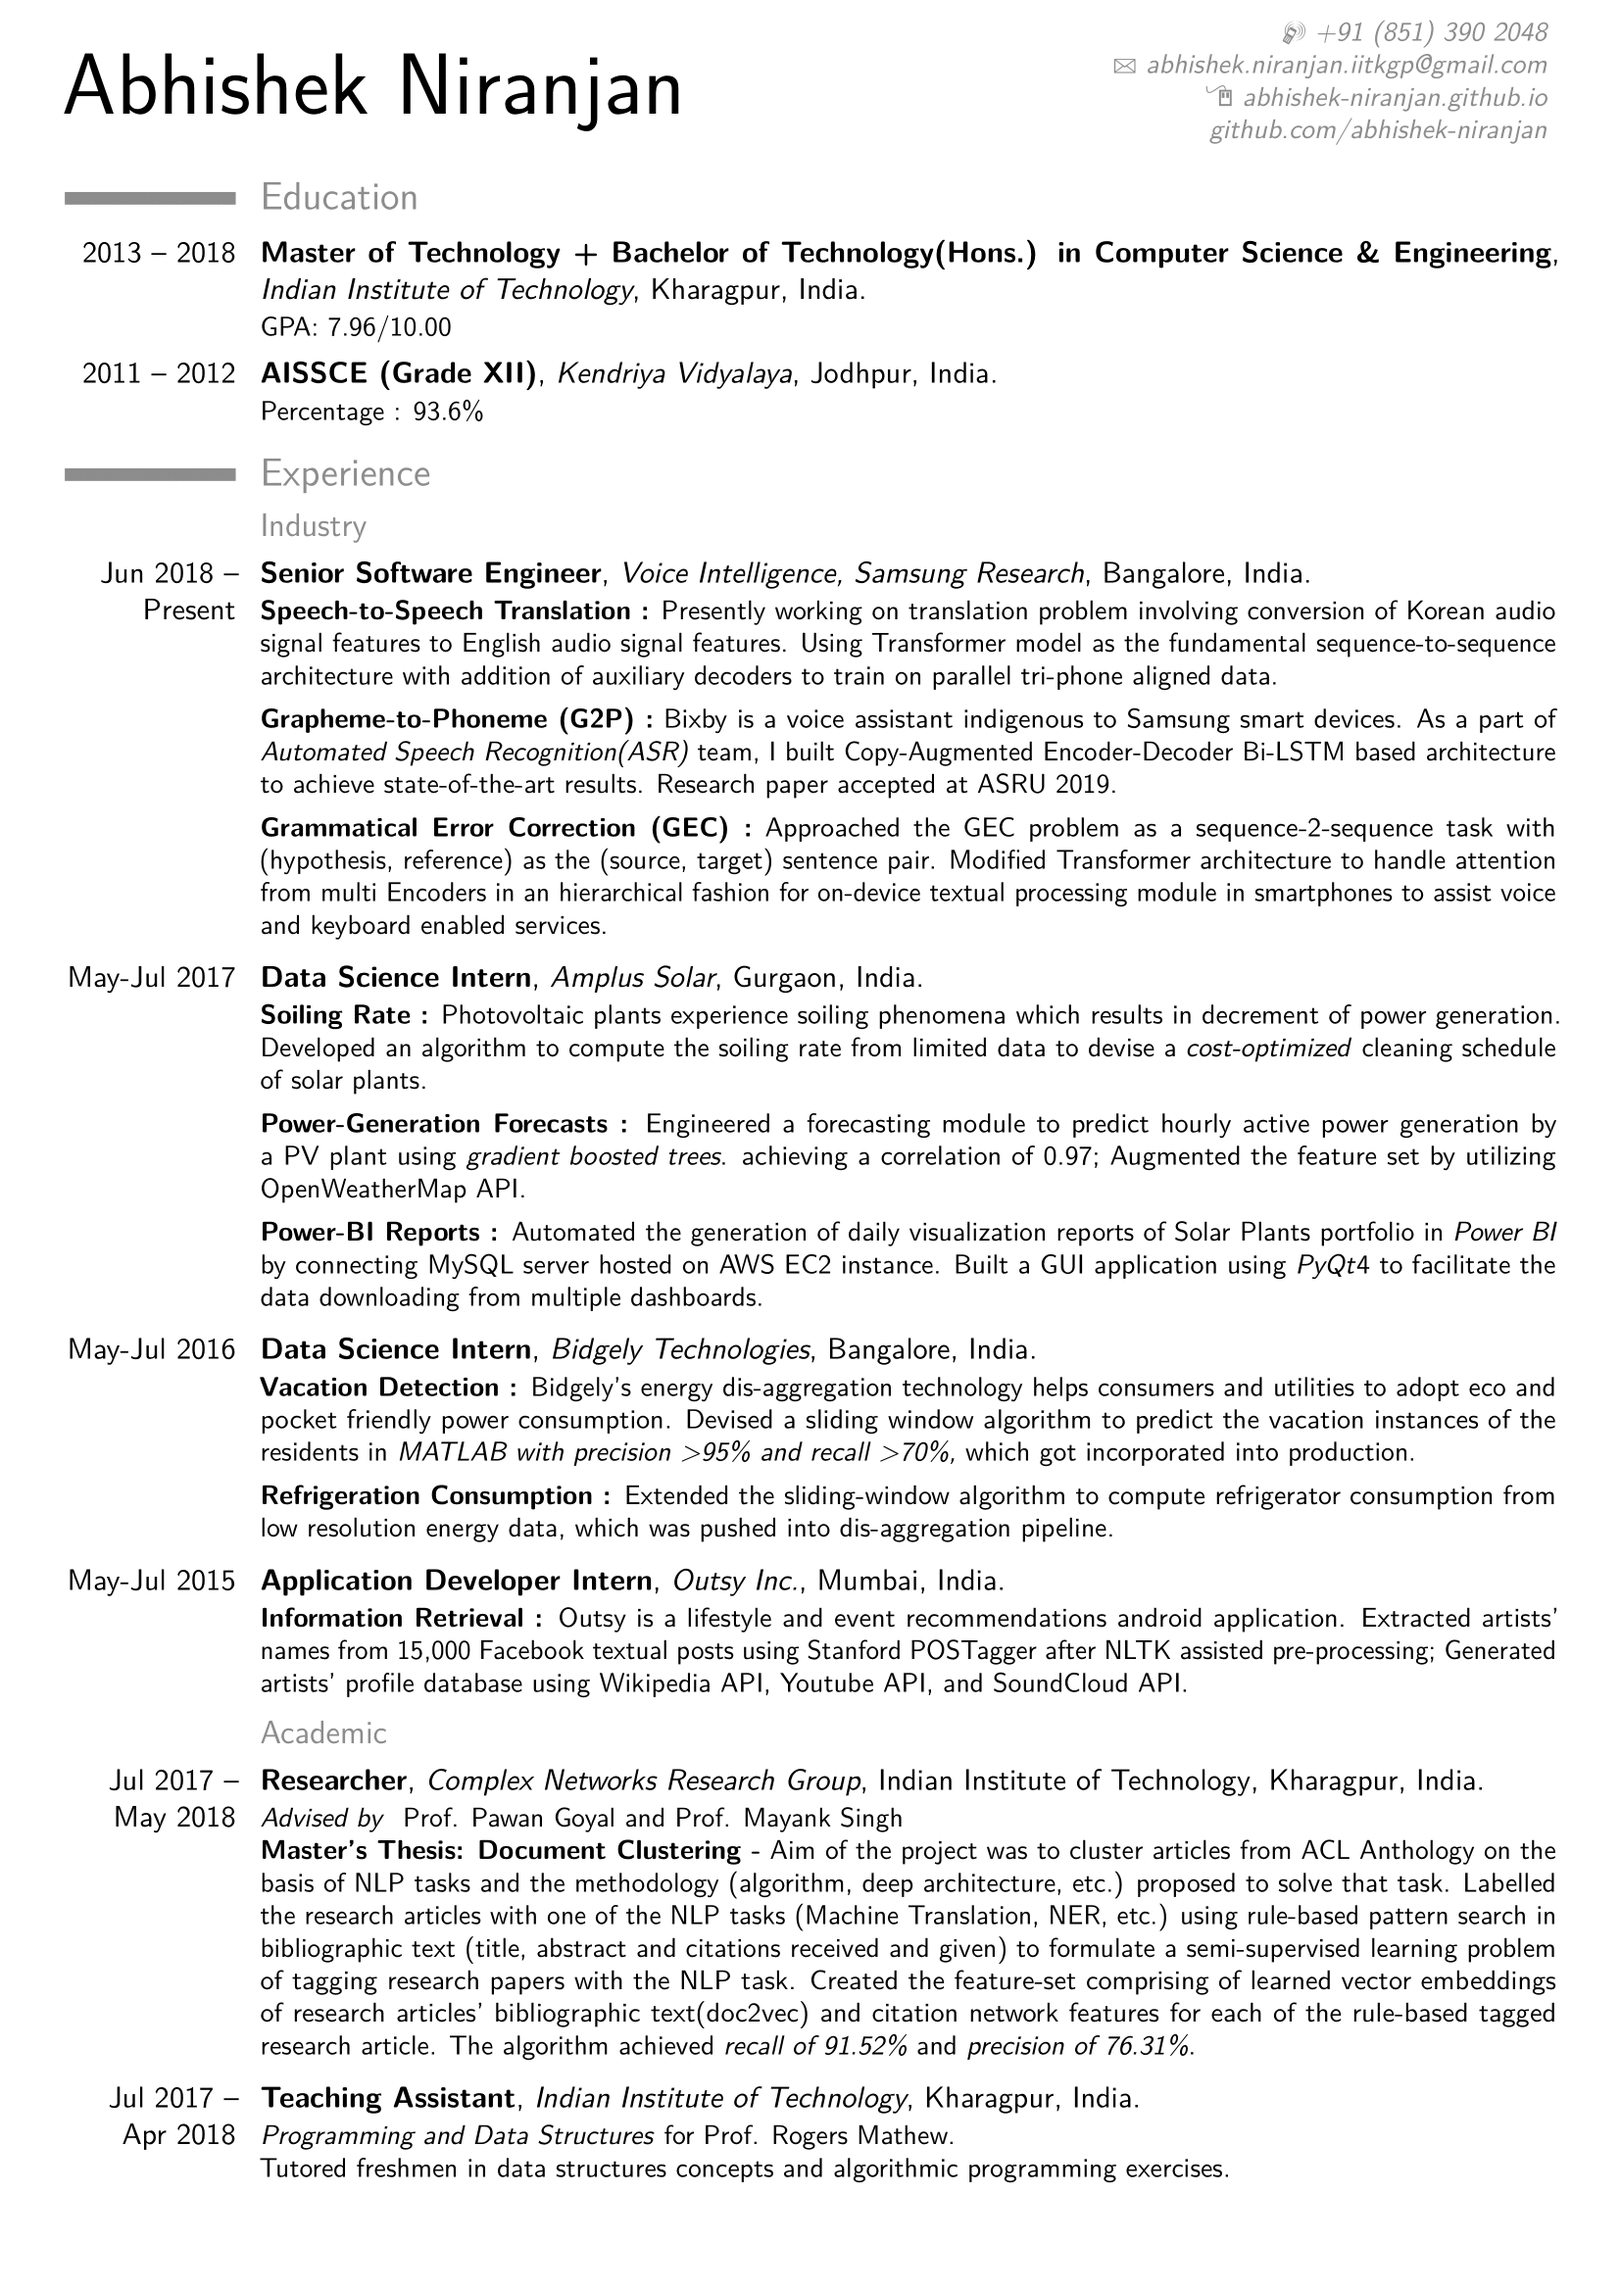
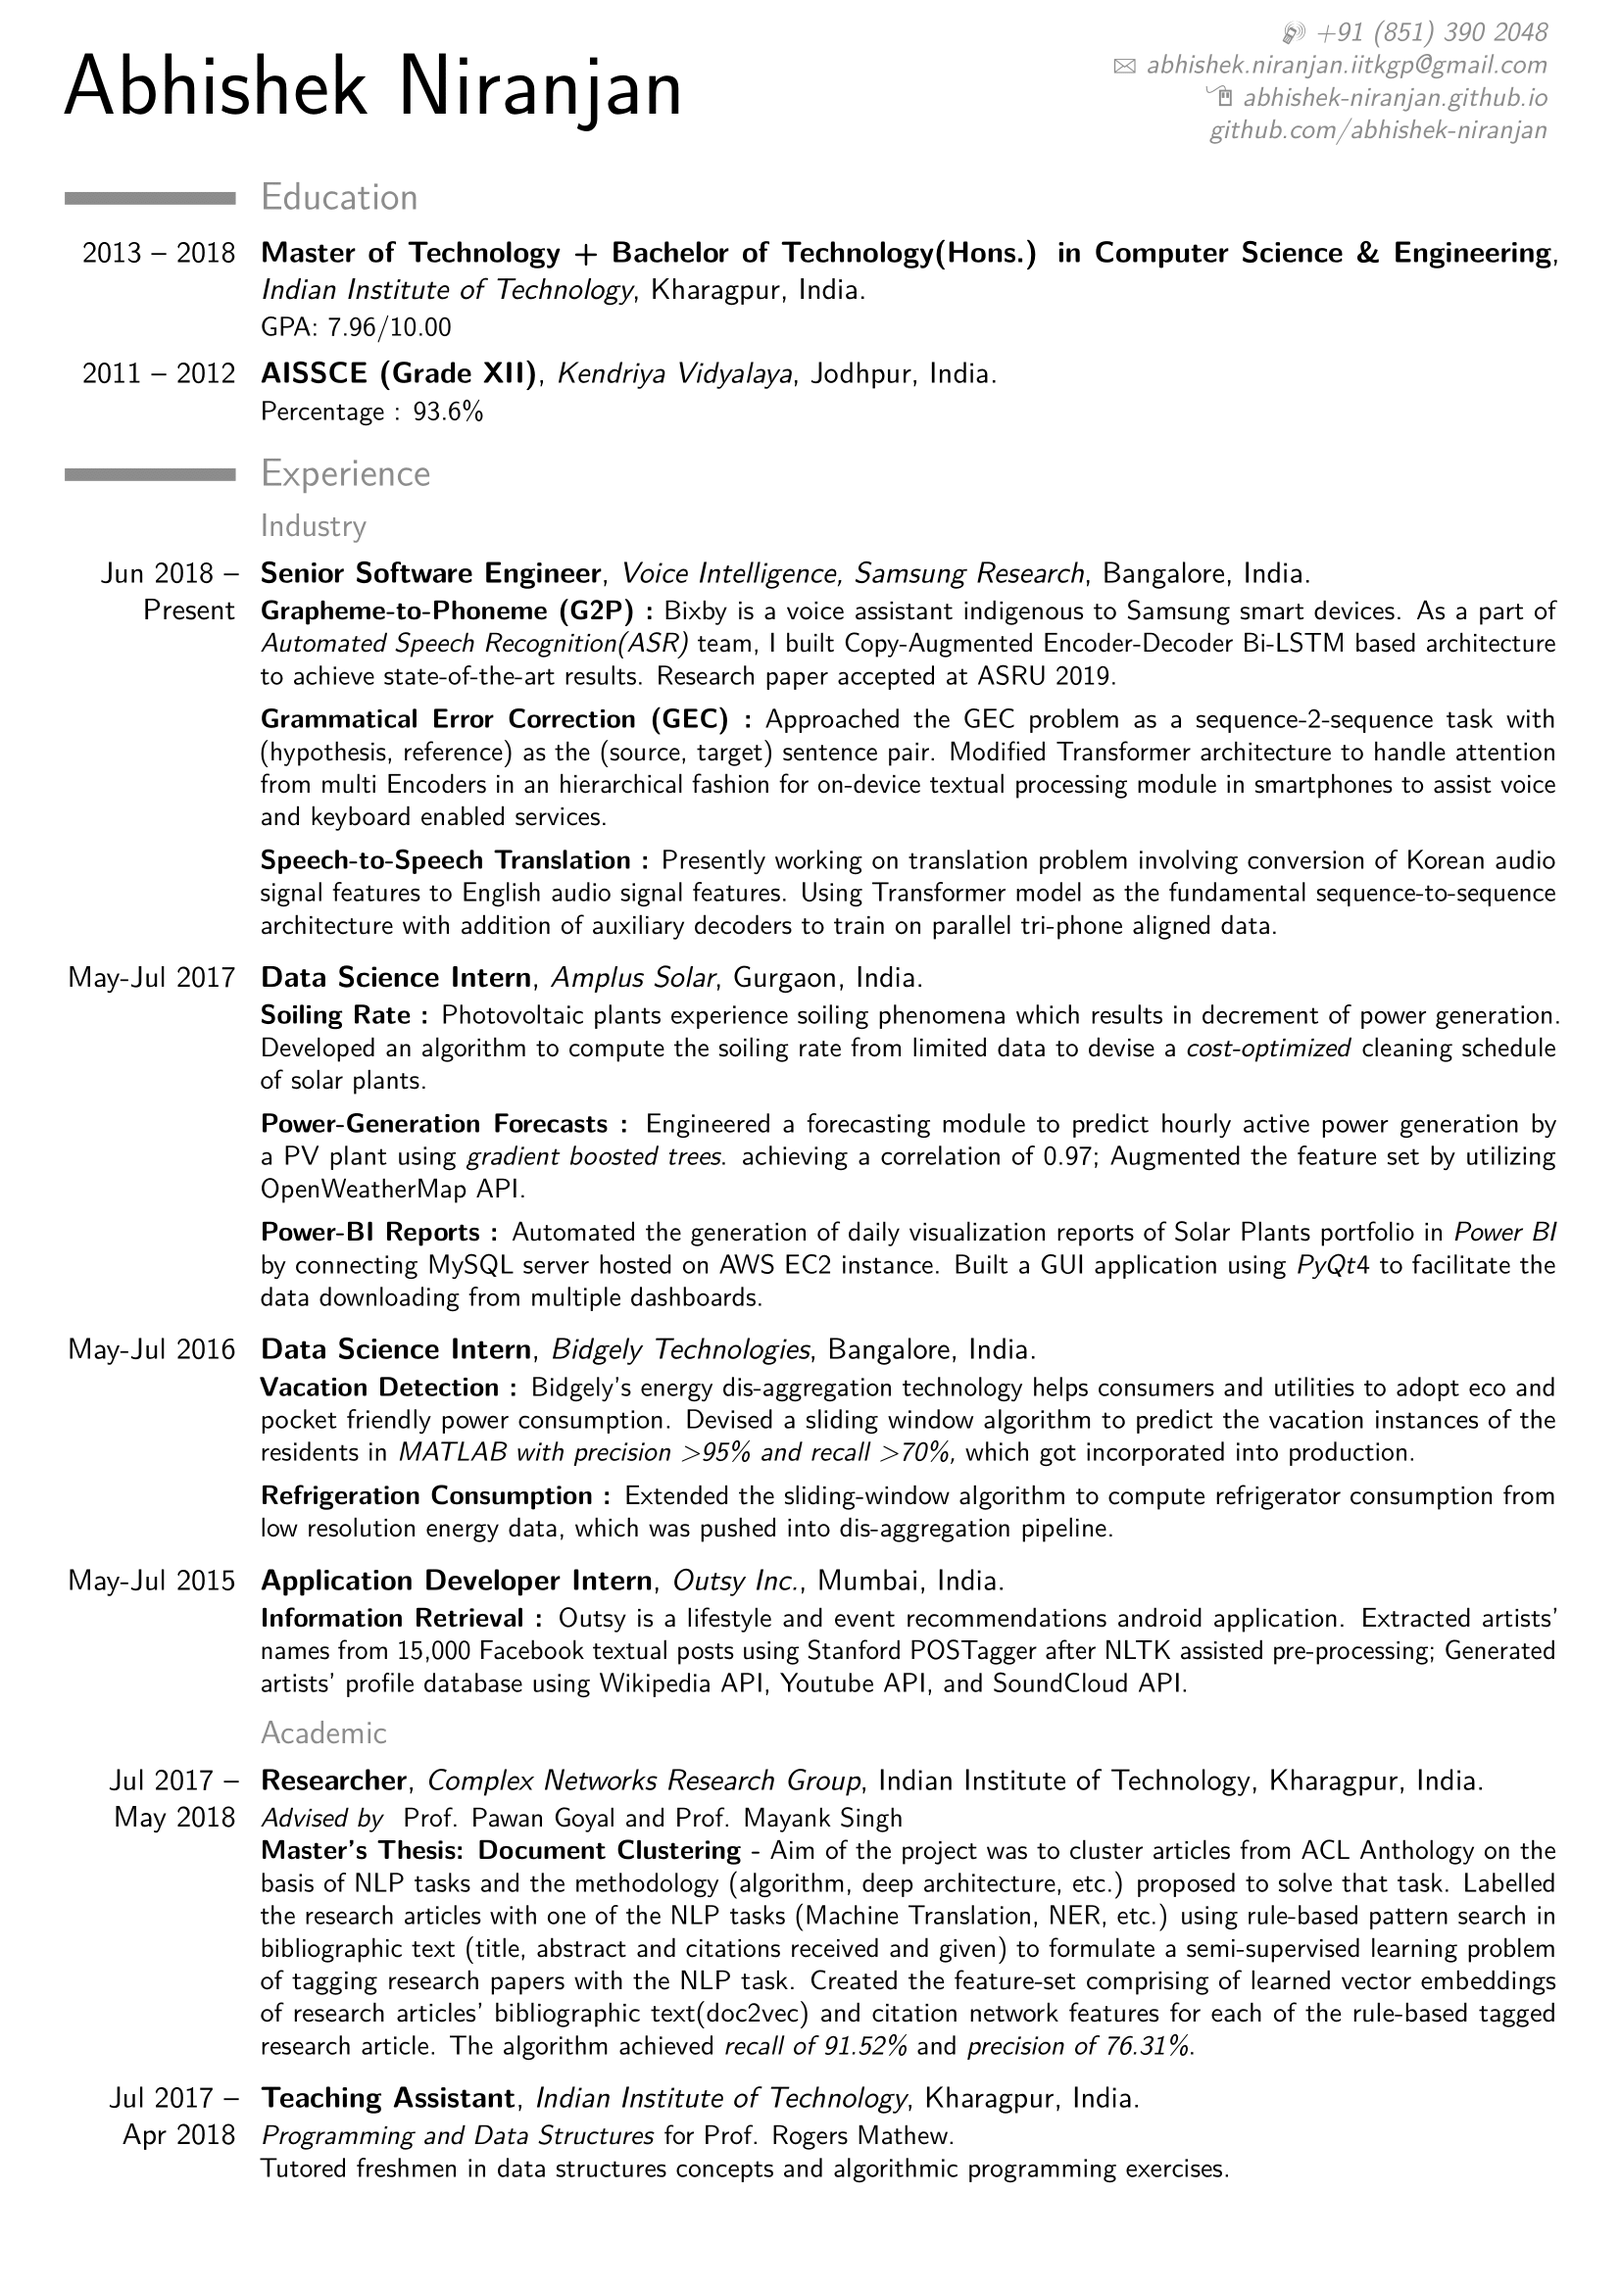
Updates from Overleaf

Changed region(s): [[0.1542, 0.2497, 0.9559, 0.4057]]

diff --git a/main.tex b/main.tex
@@ -67,11 +67,11 @@
 \vspace{-2mm}
 \subsection{Industry}
 \cventry{Jun 2018 -- Present}{Senior Software Engineer}{Voice Intelligence, Samsung Research}{Bangalore, India}{}
-{\textbf{Speech-to-Speech Translation :} Presently working on translation problem involving conversion of Korean audio signal features to English audio signal features. Using Transformer model as the fundamental sequence-to-sequence architecture with addition of auxiliary decoders to train on parallel tri-phone aligned data.
+{\textbf{Grapheme-to-Phoneme (G2P) :} Bixby is a voice assistant indigenous to Samsung smart devices. As a part of \textit{Automated Speech Recognition(ASR)} team, I built Copy-Augmented Encoder-Decoder Bi-LSTM based architecture to achieve state-of-the-art results. Research paper accepted at ASRU 2019.
 \vspace{4} \\ 
-\textbf{Grapheme-to-Phoneme (G2P) :} Bixby is a voice assistant indigenous to Samsung smart devices. As a part of \textit{Automated Speech Recognition(ASR)} team, I built Copy-Augmented Encoder-Decoder Bi-LSTM based architecture to achieve state-of-the-art results. Research paper accepted at ASRU 2019.
+\textbf{Grammatical Error Correction (GEC) :} Approached the GEC problem as a sequence-2-sequence task with (hypothesis, reference) as the (source, target) sentence pair. Modified Transformer architecture to handle attention from multi Encoders in an hierarchical fashion for on-device textual processing module in smartphones to assist voice and keyboard enabled services.
 \vspace{4} \\ 
-\textbf{Grammatical Error Correction (GEC) :} Approached the GEC problem as a sequence-2-sequence task with (hypothesis, reference) as the (source, target) sentence pair. Modified Transformer architecture to handle attention from multi Encoders in an hierarchical fashion for on-device textual processing module in smartphones to assist voice and keyboard enabled services. \\}
+\textbf{Speech-to-Speech Translation :} Presently working on translation problem involving conversion of Korean audio signal features to English audio signal features. Using Transformer model as the fundamental sequence-to-sequence architecture with addition of auxiliary decoders to train on parallel tri-phone aligned data.\\}
 \vspace{-2mm}
 \cventry{May-Jul 2017}{Data Science Intern}{Amplus Solar}{Gurgaon, India}{}
 {\textbf{Soiling Rate :} Photovoltaic plants experience soiling phenomena which results in decrement of power generation. Developed an algorithm to compute the soiling rate from limited data to devise a \textit{cost-optimized} cleaning schedule of solar plants.
